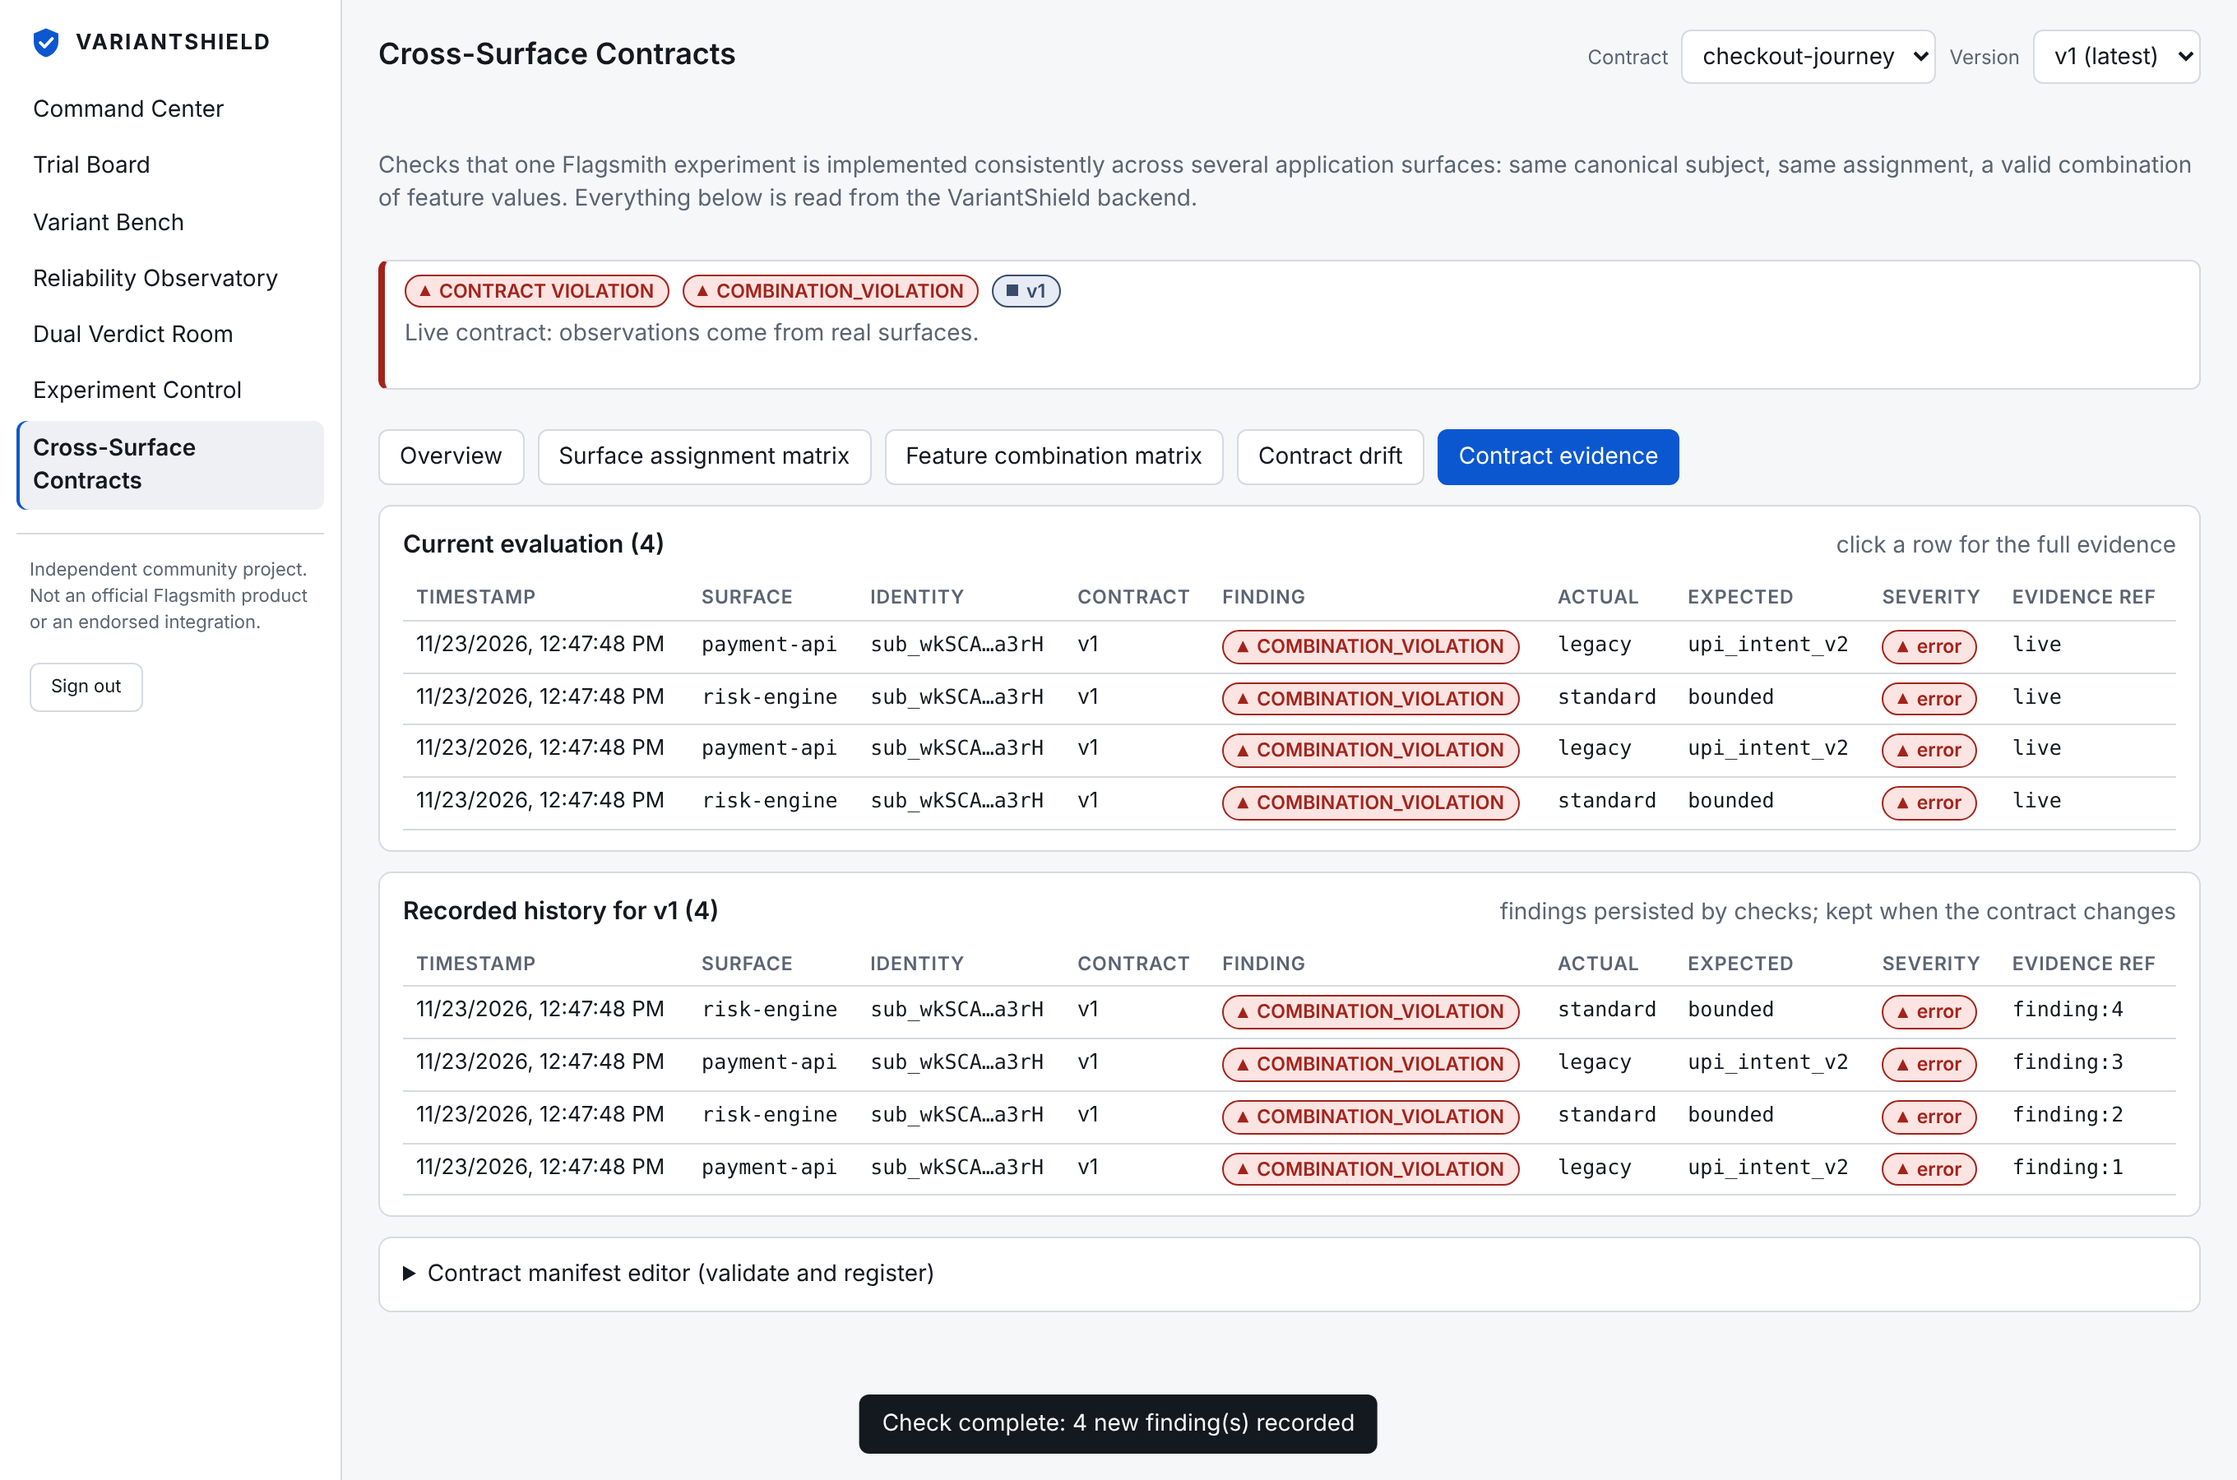
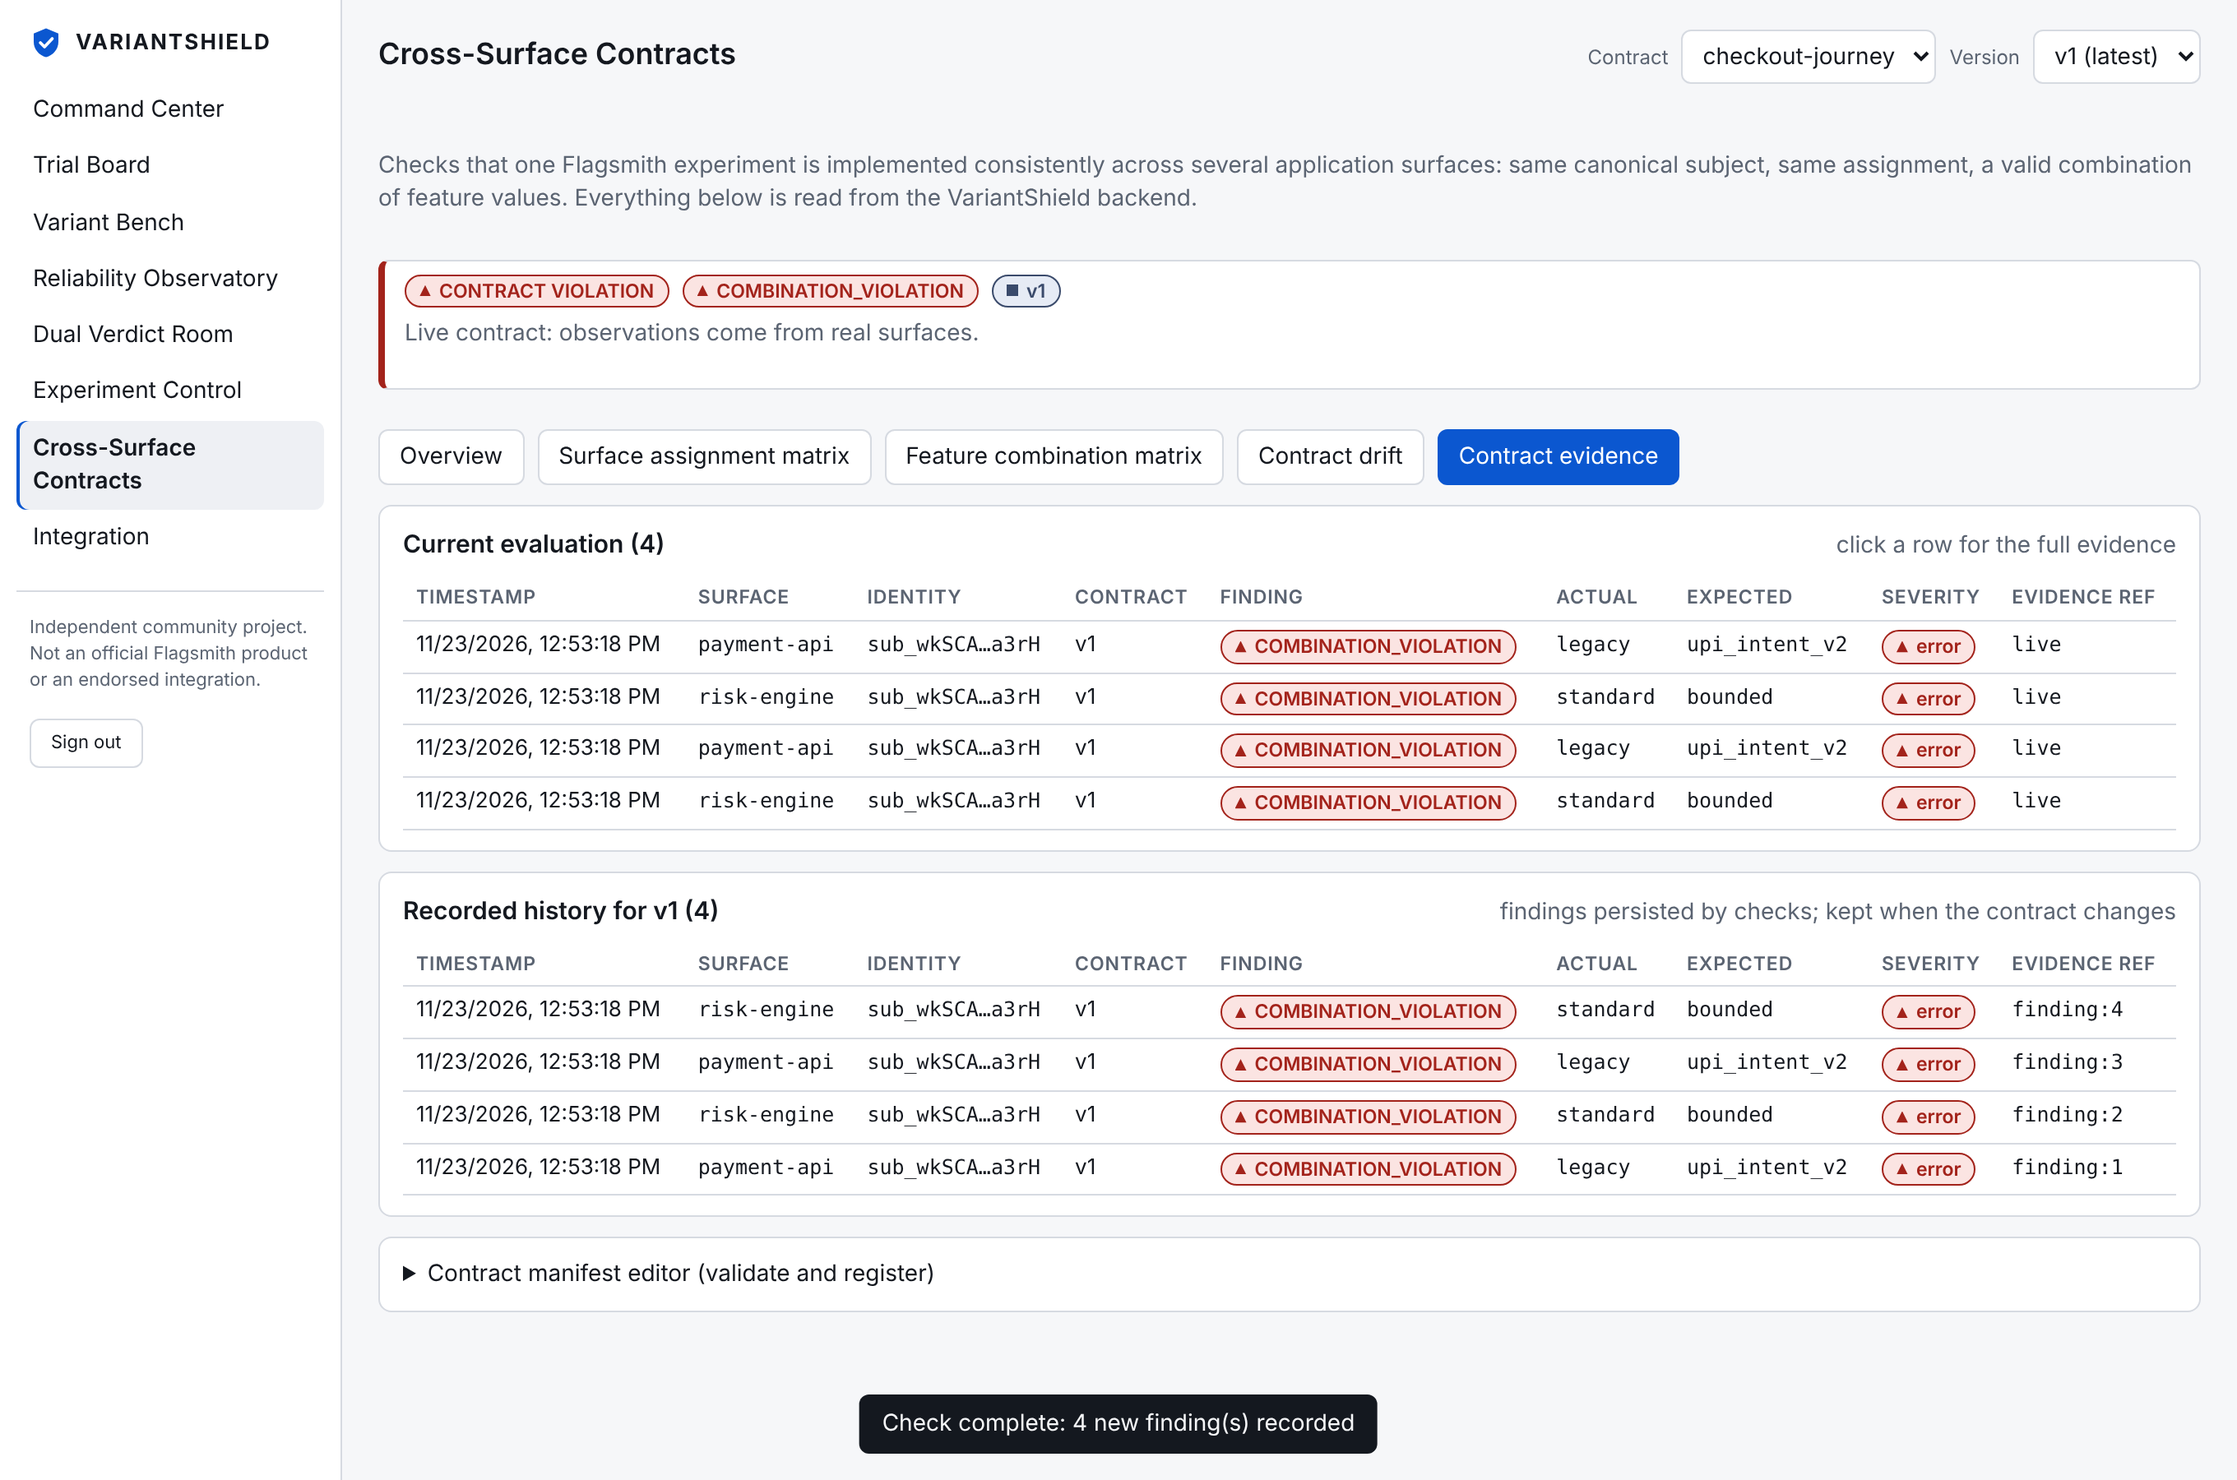
VariantShield: Integration page, demo script, docs and compose updates
Claude-Session: https://claude.ai/code/session_01XJGB19af3cWARhLzjUEHMq

diff --git a/variantshield/apps/dashboard/public/integration.js b/variantshield/apps/dashboard/public/integration.js
@@ -1,0 +1,42 @@
+import { api, ApiError } from "./api.js";
+import { chip, h } from "./ui.js";
+
+const yes = (v) => chip(v ? "ok" : "none", v ? "set" : "not set");
+
+export async function integrationView({ navigate }) {
+  const root = h("div", { class: "grid" });
+  root.append(h("div", { class: "topbar" }, h("h1", {}, "Integration")));
+  let d;
+  try { d = await api("GET", "/api/integration"); } catch (e) {
+    root.append(h("div", { class: "banner bad", role: "alert" }, e instanceof ApiError ? `${e.code}: ${e.message}` : String(e)));
+    return root;
+  }
+  const fl = d.flagsmith;
+  const healthState = fl.health?.state ?? "unknown";
+  root.append(h("p", { class: "muted" }, "How this VariantShield instance is wired. It is read from the running backend. Secret values are never shown, only whether they are set. Change them with environment variables and restart."));
+  if (d.demoMode) root.append(h("div", { class: "banner" }, "DEMO MODE: simulation scenarios are enabled and are always labelled SIMULATION."));
+  if (d.secrets.ephemeral) root.append(h("div", { class: "banner warn" }, "Ephemeral development secrets are in use. They change on every restart. Set the VARIANTSHIELD_* secrets for anything persistent."));
+
+  const kv = (rows) => h("dl", { class: "kv" }, rows.flatMap(([k, v]) => [h("dt", {}, k), h("dd", {}, v)]));
+  root.append(h("div", { class: "card" }, h("h2", {}, "Flagsmith connection"), kv([
+    ["Status", chip(healthState === "ok" ? "ok" : healthState === "not_configured" ? "none" : "WARNING", String(healthState).replaceAll("_", " "))],
+    ["Base URL", fl.baseUrl ?? "not set (FLAGSMITH_URL)"],
+    ["Environment key", fl.environmentKey ?? "not set (FLAGSMITH_ENVIRONMENT_KEY)"],
+    ["Management credential", yes(fl.adminConfigured)],
+    ["Detail", fl.health?.message ?? ""],
+  ]), h("button", { type: "button", onclick: () => navigate(location.hash) }, "Re-test connection")));
+
+  root.append(h("div", { class: "card" }, h("h2", {}, "Secrets (values hidden)"), kv([
+    ["Admin token (dashboard and API)", yes(d.secrets.adminToken)],
+    ["Ingest key (telemetry and observations)", yes(d.secrets.ingestKey)],
+    ["Identity secret (signs subject refs)", yes(d.secrets.identitySecret)],
+    ["Identity issuer key (mints tokens)", yes(d.secrets.identityIssuerKey)],
+  ])));
+
+  root.append(h("div", { class: "card" }, h("h2", {}, "Endpoints for your services"), kv(Object.entries(d.endpoints).map(([k, v]) => [k, `${v.path}  (${v.auth})`]))));
+  root.append(h("div", { class: "card" }, h("h2", {}, "Runtime"), kv([
+    ["Version", d.version], ["Contracts registered", String(d.contracts.registered)], ["Event retention", `${d.retentionDays} days`],
+    ["CORS origins", d.corsOrigins.length ? d.corsOrigins.join(", ") : "none (same origin only)"],
+  ])));
+  return root;
+}

diff --git a/variantshield/apps/api/src/app.ts b/variantshield/apps/api/src/app.ts
@@ -88,6 +88,32 @@ const routes: Route[] = [
   },
 
   {
+    // Read-only view of how this instance is wired. Reports whether secrets are set, never their values.
+    method: "GET", pattern: /^\/api\/integration$/, auth: "admin",
+    handler: async ({ ctx }) => {
+      const fs = ctx.flagsmith;
+      return {
+        version: VERSION,
+        demoMode: ctx.cfg.demoMode,
+        flagsmith: {
+          configured: fs !== null,
+          ...(fs ? fs.describe() : { baseUrl: ctx.cfg.flagsmith.url, environmentKey: null, adminConfigured: false }),
+          health: await flagsmithHealth(ctx),
+        },
+        secrets: { adminToken: true, ingestKey: true, identitySecret: true, identityIssuerKey: true, ephemeral: ctx.cfg.ephemeralSecrets },
+        retentionDays: ctx.cfg.retentionDays,
+        corsOrigins: ctx.cfg.corsOrigins,
+        contracts: { registered: Number((ctx.db.get("SELECT COUNT(DISTINCT id) AS n FROM contracts") as { n: number } | undefined)?.n ?? 0) },
+        endpoints: {
+          ingest: { path: "/api/ingest", auth: "X-Ingest-Key" },
+          contractObservations: { path: "/api/contract-observations", auth: "X-Ingest-Key" },
+          identityIssue: { path: "/api/identity/issue", auth: "X-Identity-Issuer-Key" },
+          identityVerify: { path: "/api/identity/verify", auth: "X-Ingest-Key" },
+        },
+      };
+    },
+  },
+  {
     method: "GET", pattern: /^\/api\/overview$/, auth: "admin",
     handler: async ({ ctx }) => {
       const board = await buildBoard(ctx);

diff --git a/variantshield/apps/dashboard/public/app.js b/variantshield/apps/dashboard/public/app.js
@@ -2,10 +2,11 @@ import { api, ApiError, session } from "./api.js";
 import { chip, h, toast } from "./ui.js";
 import { commandCenter, control, observatory, trialBoard, variantBench, verdictRoom } from "./views.js";
 import { contractsView } from "./contracts.js";
+import { integrationView } from "./integration.js";
 
 const ROUTES = [
   ["#/command", "Command Center", commandCenter], ["#/board", "Trial Board", trialBoard], ["#/bench", "Variant Bench", variantBench],
-  ["#/observatory", "Reliability Observatory", observatory], ["#/verdict", "Dual Verdict Room", verdictRoom], ["#/control", "Experiment Control", control], ["#/contracts", "Cross-Surface Contracts", contractsView],
+  ["#/observatory", "Reliability Observatory", observatory], ["#/verdict", "Dual Verdict Room", verdictRoom], ["#/control", "Experiment Control", control], ["#/contracts", "Cross-Surface Contracts", contractsView], ["#/integration", "Integration", integrationView],
 ];
 const app = document.getElementById("app");
 

diff --git a/variantshield/tests/ui.contracts.test.ts b/variantshield/tests/ui.contracts.test.ts
@@ -136,6 +136,13 @@ describe("Cross-Surface Contracts dashboard", () => {
     await page.locator(".banner .chip", { hasText: "CONTRACT VALID" }).first().waitFor();
     assert.equal(await page.getByRole("row", { name: /compliant/ }).count(), 4);
     await shot("contracts-07-valid-simulation");
+    // Integration page: wiring is visible, secret values never are.
+    await page.goto(`${base}/#/integration`);
+    await page.getByRole("heading", { name: "Flagsmith connection" }).waitFor();
+    await page.getByRole("heading", { name: "Secrets (values hidden)" }).waitFor();
+    await page.getByRole("heading", { name: "Endpoints for your services" }).waitFor();
+    assert.ok(!(await page.locator("main").innerText()).includes(ADMIN), "admin token is not rendered");
+    await shot("integration-01-config");
     assert.deepEqual(problems.filter((p) => !/status of 401/.test(p)), [], "no console errors or CSP violations");
   });
 });

diff --git a/variantshield/apps/api/src/api.test.ts b/variantshield/apps/api/src/api.test.ts
@@ -46,6 +46,15 @@ const linkedPlan = async (): Promise<number> => {
 };
 
 describe("api: security and plumbing", () => {
+  it("integration__admin__reports_wiring_without_leaking_secret_values", async () => {
+    const r = await call("GET", "/api/integration");
+    assert.equal(r.status, 200);
+    assert.equal(r.json.secrets.identitySecret, true);
+    assert.ok(r.json.flagsmith.health);
+    assert.ok(r.json.endpoints.identityIssue);
+    assert.ok(!JSON.stringify(r.json).includes(ADMIN));
+    assert.equal((await call("GET", "/api/integration", undefined, {})).status, 401);
+  });
   it("health__is_public", async () => {
     assert.equal((await call("GET", "/health", undefined, {})).status, 200);
   });

diff --git a/variantshield/docs/guides/DEMO_SCRIPT.md b/variantshield/docs/guides/DEMO_SCRIPT.md
@@ -1,0 +1,32 @@
+# Demo script (about 8 minutes)
+
+Independent open-source project, not an official Flagsmith product. Simulated data is always labelled SIMULATION.
+
+## Setup
+```bash
+npm ci && npm run serve            # prints the admin token, ingest key, issuer key (dev: ephemeral)
+```
+Open http://127.0.0.1:8787, paste the admin token.
+
+## 1. Reliability guardrails (Phase 1)
+1. Command Center: connection and board. Run the **regression** simulation. Trial Board shows BREACH for the treatment variant only.
+2. Reliability Observatory: timelines per variant with threshold lines. The latest bucket crosses the line.
+3. Dual Verdict Room: Flagsmith says the variant wins, guardrails say it is unsafe, so the verdict is "winning but unsafe".
+
+## 2. Contracts without Flagsmith (simulation)
+1. Cross-Surface Contracts, **Load example**, **Validate**, **Register**.
+2. Run scenario `valid`: CONTRACT_VALID, all surfaces agree.
+3. Run `invalid-combination`: the Feature combination matrix shows the exact feature and surface that violates the constraint.
+4. Run `assignment-mismatch`, `environment-mismatch`, `unlinked-identity` and look at Evidence and Contract drift.
+
+## 3. Contracts with a real Flagsmith
+```bash
+export FLAGSMITH_URL=... FLAGSMITH_ENVIRONMENT_KEY=... FLAGSMITH_ADMIN_API_KEY=...
+npm run serve                      # terminal 1
+npm run surfaces                   # terminal 2: web, mobile, payment API, risk engine
+node scripts/contract-demo.ts      # terminal 3: phases A healthy, B bad combination, C stale variant
+```
+The Integration page confirms the connection. The CLI gates CI: `npm run vs -- contract check --contract checkout-journey` exits 1 on a violation and 3 when incomplete.
+
+## 4. Talking points
+Flagsmith's assignment is reused, never re-implemented. A missing observation is "delayed", not "failed". Unverifiable identity is `IDENTITY_UNLINKED`, never guessed. Contract versions and findings are immutable history.

diff --git a/variantshield/README.md b/variantshield/README.md
@@ -68,7 +68,7 @@ Declare how one experiment must behave across web, mobile, payment and risk serv
 | Command | Purpose |
 |---|---|
 | `npm run check` | typecheck + lint + every test |
-| `npm test` | 221 tests (unit, API integration, CLI, surfaces, end to end, Playwright UI) |
+| `npm test` | 222 tests (unit, API integration, CLI, surfaces, end to end, Playwright UI) |
 | `npm run vs -- contract validate --file examples/checkout-journey.contract.yaml` | validate a contract manifest (also `register`, `check`, `report`) |
 | `npm run surfaces` | four sample surfaces (web, mobile simulator, payment API, risk engine) on :8801-8804 |
 | `npm run demo:contracts` | live contract demo: healthy, bad combination, stale variant |
@@ -87,7 +87,7 @@ Copy [`.env.example`](.env.example). Required in production: `VARIANTSHIELD_ADMI
 | Check | Result |
 |---|---|
 | `tsc --noEmit` (strict), `eslint` | pass |
-| 221 automated tests (`npm run check`, exit 0) | pass: Phase 1 suites plus contracts 49, adapter 27, contract API 31, CLI 12, surfaces 8, contract UI journey 1 |
+| 222 automated tests (`npm run check`, exit 0) | pass: Phase 1 suites plus contracts 49, adapter 27, contract API 31, CLI 12, surfaces 8, contract UI journey 1 (includes the Integration page) |
 | Cross-surface contract demo against real Flagsmith (pre-restart run) | healthy contract, combination violation and stale-variant mismatch detected as expected; 12 subjects re-verified against Flagsmith |
 | Assignment-config drift on real Flagsmith | **not run live**; covered by tests against a fake Flagsmith only |
 | Environment mismatch live | only simulation and tests (one real Flagsmith environment available) |

diff --git a/variantshield/CONTRIBUTING.md b/variantshield/CONTRIBUTING.md
@@ -13,6 +13,10 @@ npm run check                     # typecheck + lint + all tests
 
 Node 22.18 or newer. No build step: TypeScript runs through Node's type stripping, so use only erasable syntax (no `enum`, no constructor parameter properties). `tsc --noEmit` enforces strict mode.
 
+## Working on contracts
+
+`packages/contracts` is pure (no I/O); keep it that way and put persistence in `apps/api/src/contracts.ts`. New finding codes need: a type in `types.ts`, a unit test in `contracts.test.ts`, a row in `docs/guides/CONTRACTS.md`, and a dashboard label. Run the sample surfaces with `npm run surfaces` and the live driver with `npm run demo:contracts`. Never log or return identity secrets or tokens.
+
 ## Ground rules
 
 * **Never fake Flagsmith.** Real behaviour is tested against the contract double in `packages/flagsmith-adapter/src/testing/fake-flagsmith.ts`, which is built from Flagsmith's source and clearly labelled as a double. If you change an adapter assumption, verify it against a real Flagsmith with `scripts/verify-flagsmith.ts` and note the result in your PR.

diff --git a/variantshield/docs/guides/INTEGRATION.md b/variantshield/docs/guides/INTEGRATION.md
@@ -43,3 +43,7 @@ A complete reference implementation is `apps/checkout-demo/src/server.ts` and `i
 | checkout p95 latency | nearest-rank p95 of `checkout_latency.latencyMs` |
 
 Statuses reflect association with a variant, not causation; confounders such as traffic mix and deploys are not controlled.
+
+## 5. Cross-surface contracts (optional)
+
+If one experiment drives several services, add a contract. Your auth layer mints a pseudonymous identity once per customer (`POST /api/identity/issue`, issuer key), every surface uses the returned `subjectRef` as the Flagsmith identity, forwards the signed token between services, and reports an observation after resolving its features (`POST /api/contract-observations`, ingest key). See [`CONTRACTS.md`](CONTRACTS.md) and [`../API.md`](../API.md). The **Integration** page in the dashboard shows which credentials and endpoints your instance has configured.

diff --git a/variantshield/IMPLEMENTATION_STATUS.md b/variantshield/IMPLEMENTATION_STATUS.md
@@ -27,4 +27,4 @@ Genuine outcomes are recorded in the "Log" below as work proceeds.
 - Full `npm run check` (tsc strict, eslint, all tests): 221 tests, 0 failures, exit 0.
 - Live contract demo against a real Flagsmith (built from source) passed before a sandbox restart: healthy, combination violation, stale-variant assignment mismatch. Not re-run after restart.
 - Not verified: Docker/compose (no daemon), Flagsmith Cloud, live config-fingerprint drift, live environment mismatch.
-- Not built: a dedicated integration-config screen (the Command Center shows the connection).
+- Integration page (`#/integration`, `GET /api/integration`) added: shows Flagsmith connection health and which secrets are set, never values. `npm run check`: 222 tests, 0 failures.
